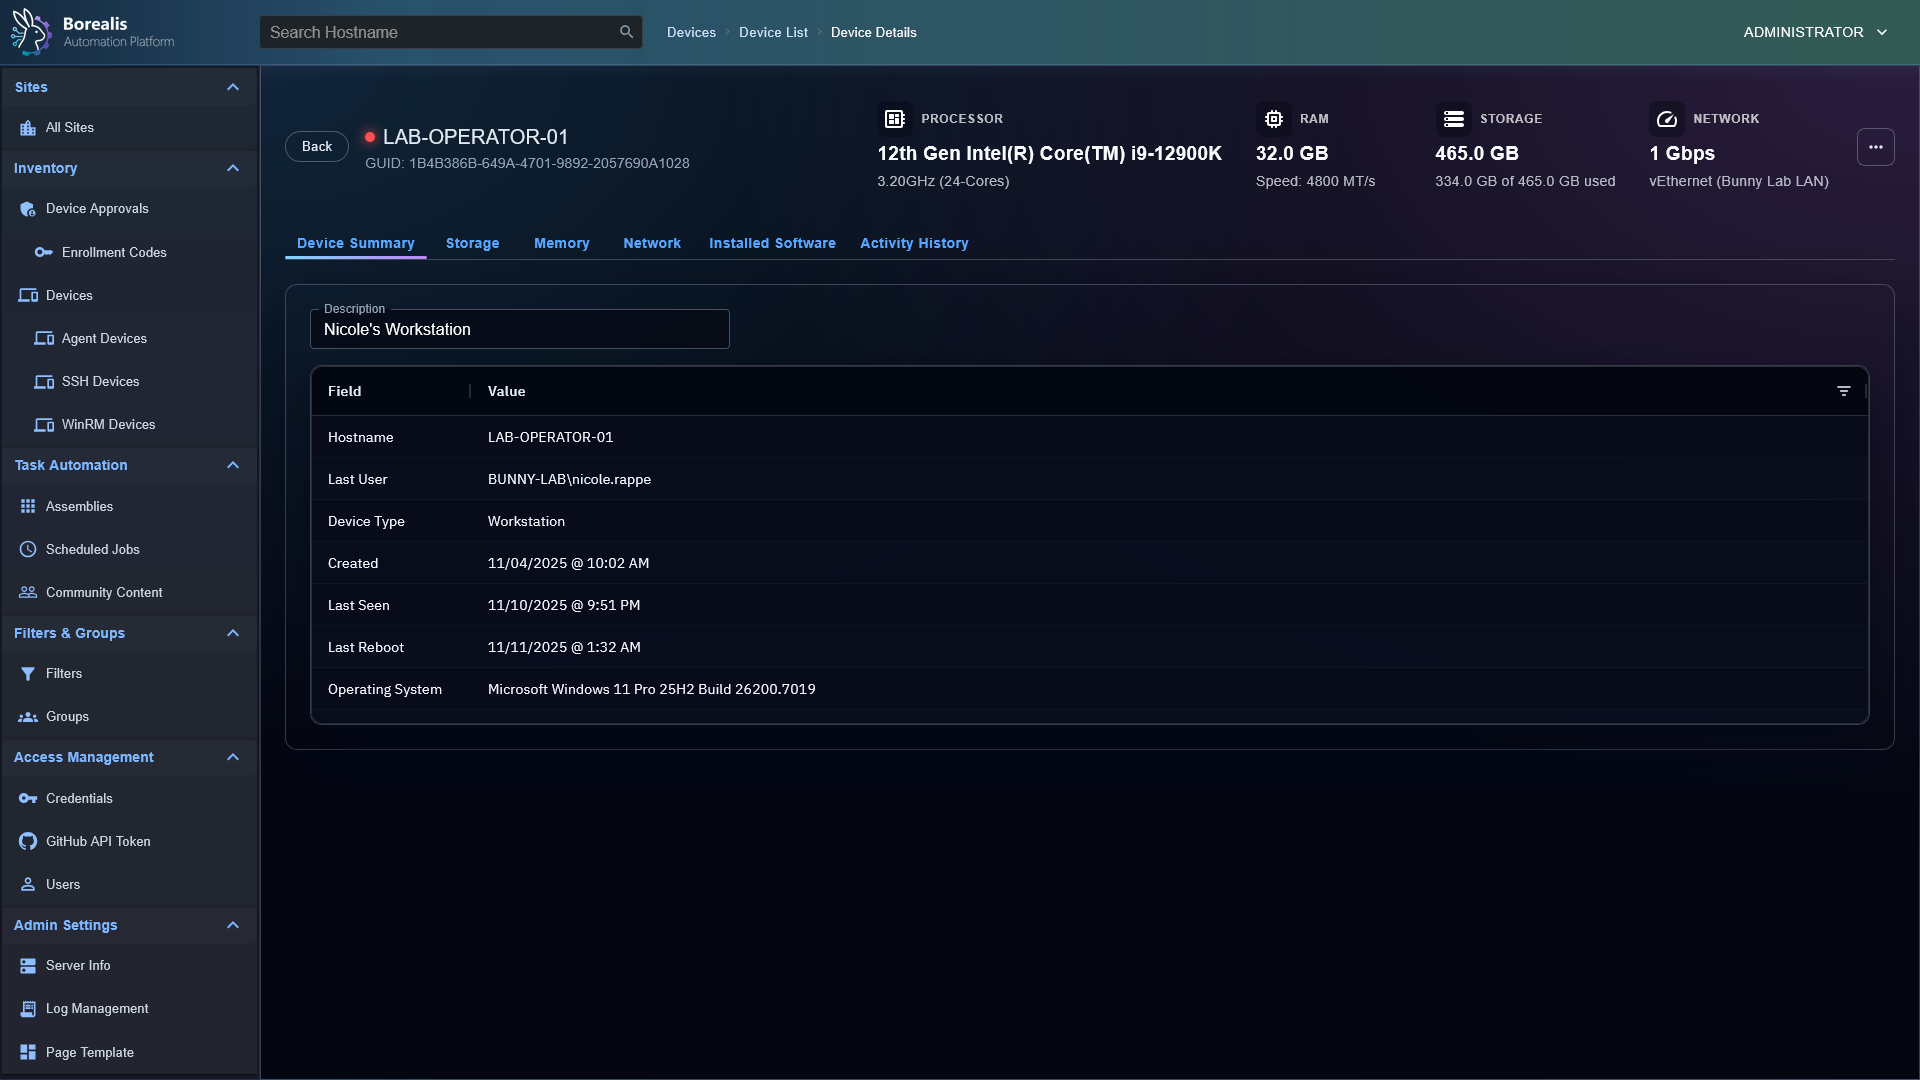
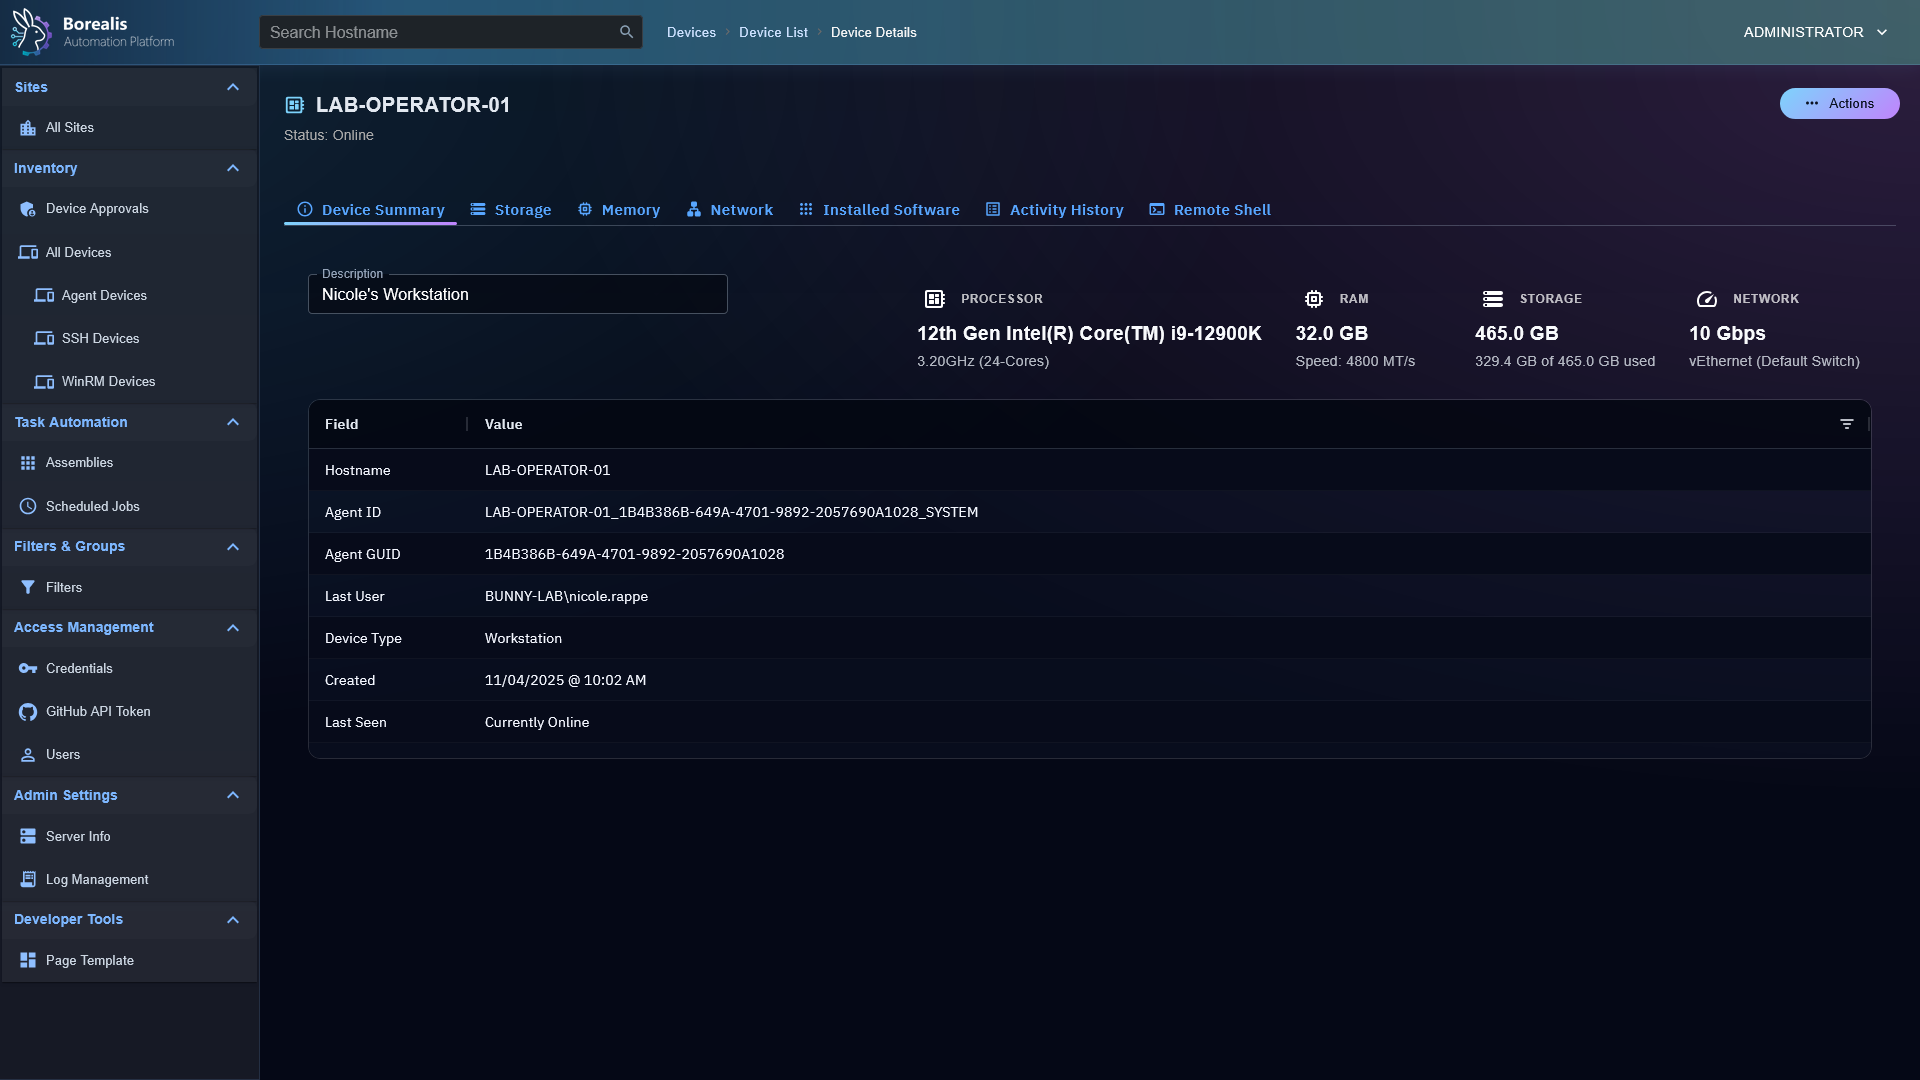
Updated README.md with New Screenshots

diff --git a/readme.md b/readme.md
@@ -35,6 +35,9 @@ Device Filters:
 Device Filter Editor:
 ![Device Filter Editor](Docs/images/repo_screenshots/Device_Filter_Editor.png)
 
+Device Remote Shell:
+![Device Remote Shell](Docs/images/repo_screenshots/Device_Remote_Shell.png)
+
 ## Assembly Management
 Assembly List:
 ![Assembly List](Docs/images/repo_screenshots/Assembly_List.png)
